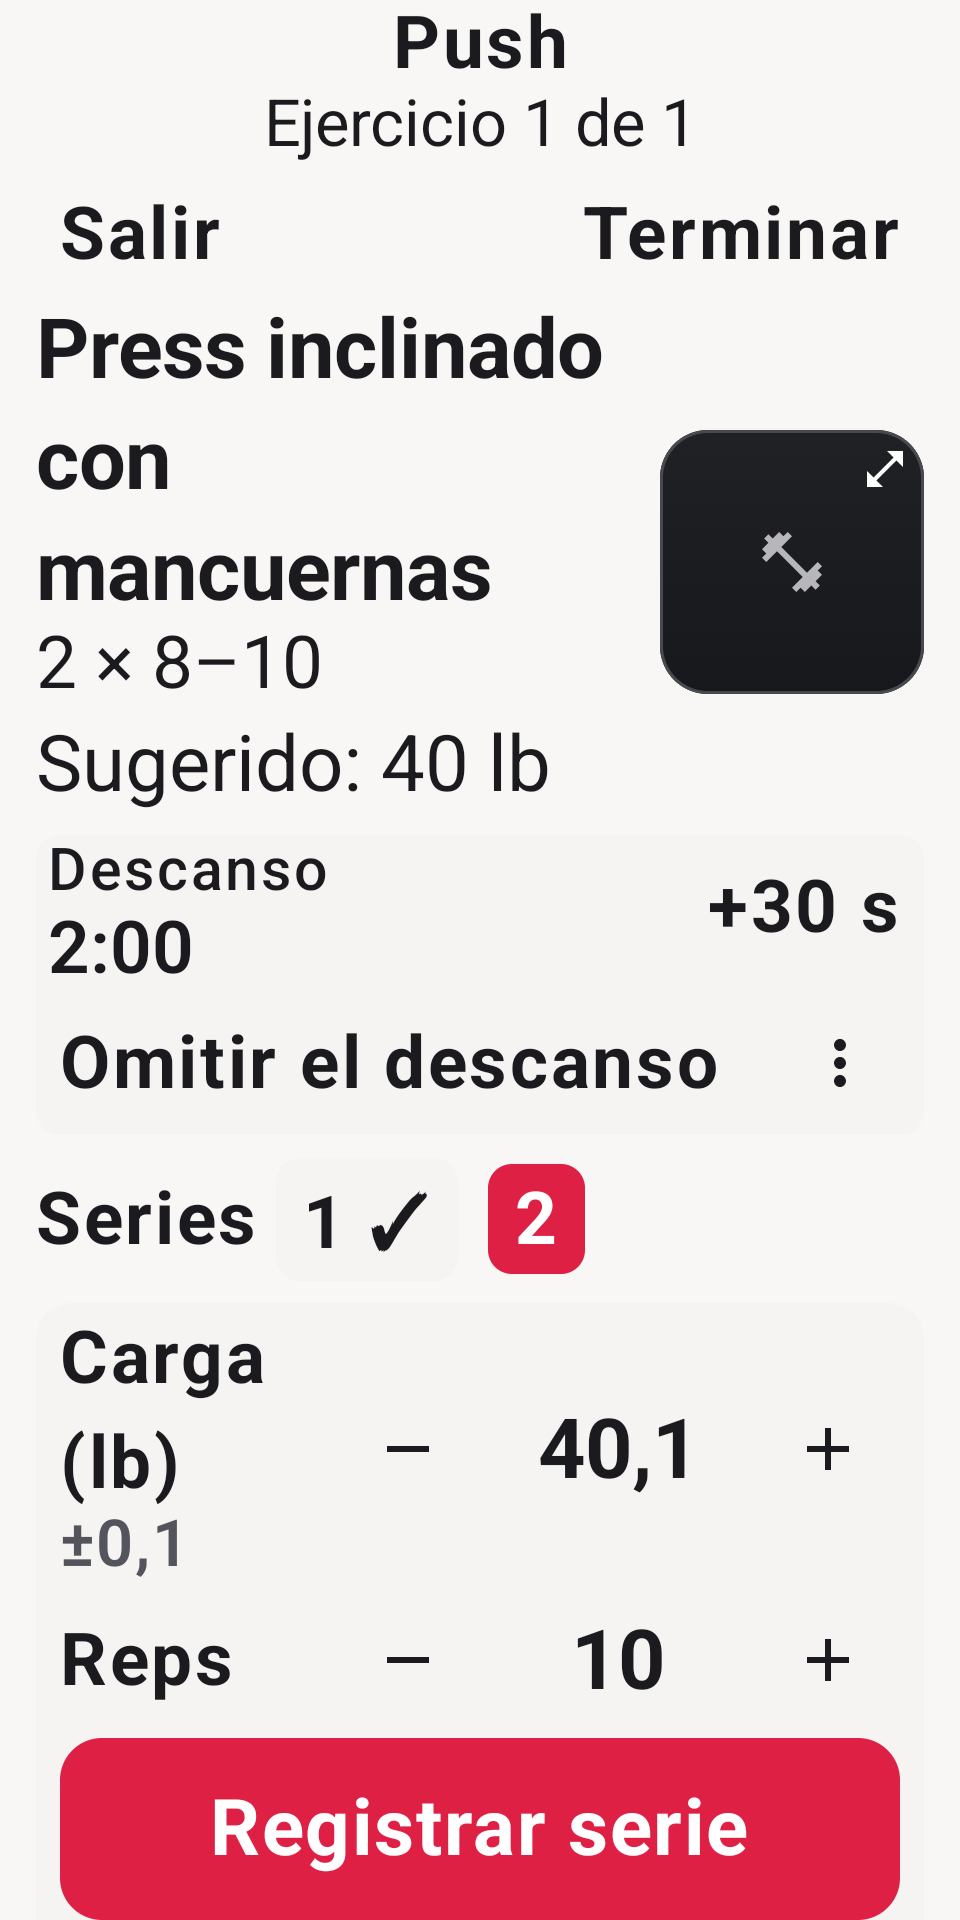
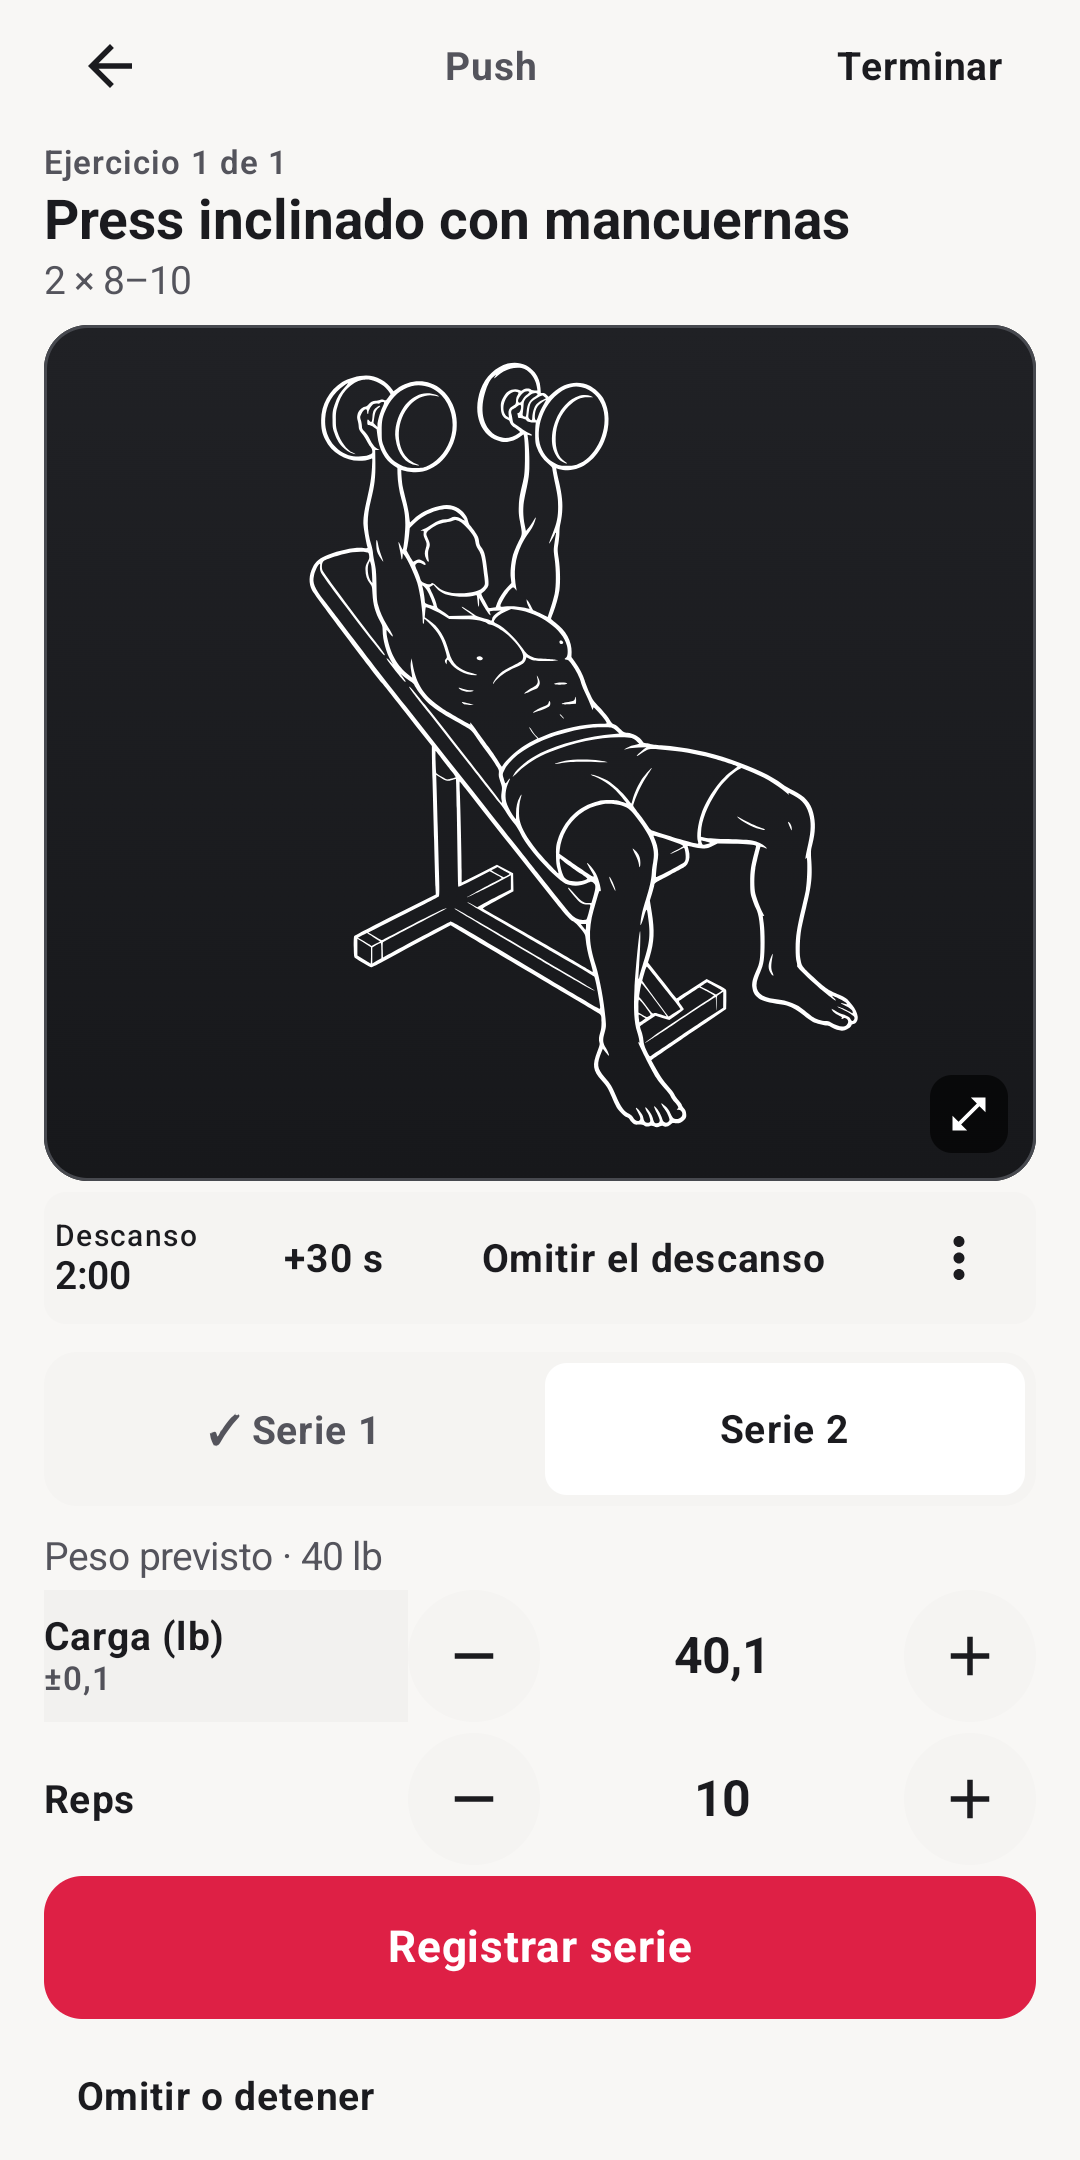
Document Train, unit selection, and stable workout demonstrations

diff --git a/README.md b/README.md
@@ -23,10 +23,14 @@ direction; the app's existing deterministic planner remains the foundation.
 
 ## Screenshots & App Experience
 
-**Train** opens your next workout or resumes one in progress. Use **Change** to choose a workout source. **Progress** opens your weekly activity and recent workouts. **Library** holds exercises, saved workouts and the educational condition guide. The profile icon on each tab opens settings.
+During setup, choose **LB** or **KG** on **Experience and units**. Each tile centers the abbreviation above the full unit name. Tap anywhere on the tile to select it. TalkBack announces the selected unit.
+
+After setup, **Train** shows your weekly workout count above today's workout poster. The poster pairs the workout split and focus with a still of the first planned exercise when its artwork is available. Check the estimated time, exercise count and sets, then tap **Start workout**. Use **Change** to switch workout sources. If you already have a session in progress, tap **Resume workout** to continue it.
+
+**Progress** opens your weekly activity and recent workouts. **Library** holds exercises, saved workouts and the educational condition guide. The profile icon on each tab opens settings.
 
 <p align="center">
-  <img src="art/screenshots/today-screen.png" width="24%" alt="Train with a workout ready to start" />
+  <img src="art/screenshots/today-screen.png" width="24%" alt="Train in dark mode with a Push workout poster, a still of its opening dumbbell press, and Start workout" />
   <img src="art/screenshots/active-workout.png" width="24%" alt="Exercise demonstration and compact set logger" />
   <img src="art/screenshots/exercises-screen.png" width="24%" alt="Library search, filters and exercise illustrations" />
   <img src="art/screenshots/profile-screen.png" width="24%" alt="Profile and settings" />
@@ -35,7 +39,7 @@ direction; the app's existing deterministic planner remains the foundation.
 - **My Workouts & Templates**: Manage and launch saved custom routines with total sets, exercise counts, and quick-start actions.
 - **Custom Workout Builder**: Interactive routine editor with full 327-exercise bottom sheet picker, move controls for ordering, type-aware editing of every prescription target, unit-safe loads, and unsaved drafts recovered after configuration change or background process death.
 - **Exercise Library**: Searchable catalog of 327 exercises across all muscle groups and equipment types.
-- **Active workout.** Swipe between exercises, tap the demonstration to expand it, and select a numbered set to review or edit it. Tap − or + once, or hold to change the value continuously. Tap the step size under the measurement label for finer adjustments. **Log set** saves the result and starts rest. [View the fine adjustment during rest](art/screenshots/active-workout-fine.png).
+- **Active workout.** Swipe between exercises and tap the artwork for a full-screen demonstration. Select a numbered set to review or edit it. Tap − or + once, or hold to adjust continuously. **Log set** saves the result and starts rest. [View the fine adjustment during rest](art/screenshots/active-workout-fine.png).
 - **Workout Summary**: The existing Finish flow shows recorded duration, external-load volume, completed sets, and records against genuinely earlier performance. View workout details opens the read-only record; Done returns to Progress.
 - **Progress Tracking & History**: Calendar-week activity and separately labelled reviewed dose, weekly streaks, and strength trends, plus an Over time card that charts 4–52 calendar weeks for all exercises, one exercise or one muscle, whose week rows list the workouts behind each week and whose data points open their workout. Tap a completed-workout card to reopen its frozen targets, performed sets, feedback and recorded decision reasons. View all workouts browses older sessions in fixed 20-workout pages.
 - **Profile and settings**: Full local customization of app language (System default / English / Español) and theme preference (Auto System / Dark Mode / Light Mode) with compact switchers, multi-select fitness goals, preferred weight units (LBS/KG), session duration targets, available gym equipment, return-after-break calibration, muscle priorities, and seven movement preferences.
@@ -74,12 +78,12 @@ History shows recorded membership independently of the latest run. Older and man
 sessions retain honestly absent membership.
 
 <p align="center">
-  <img src="art/screenshots/program-today-en.png" width="24%" alt="Today with a program session selected and the Manage program action" />
+  <img src="art/screenshots/program-today-en.png" width="24%" alt="Train showing the first program session, its position in block one, and Start program session" />
   <img src="art/screenshots/program-completed-en.png" width="24%" alt="Completed eight-slot program with recorded-workout links and no invented next slot" />
   <img src="art/screenshots/program-partial-finish-en.png" width="24%" alt="Partial Finish confirmation distinguishing program advancement from actual completed-set credit" />
 </p>
 <p align="center">
-  <em>Today was captured on API 37. The other program screens were captured on API 36. All use disposable test profiles. See
+  <em>These program screens were captured on API 36 using disposable test profiles. See
   <a href="docs/localization.md#program-controls-and-large-text-evidence">Spanish management, confirmation and large-text evidence</a>
   and the <a href="docs/architecture.md#optional-multi-week-programs">persistence and recovery contract</a>.</em>
 </p>
@@ -209,7 +213,7 @@ restoring an archive never changes it.
   <img src="art/screenshots/onboarding-welcome-language-es.png" width="24%" alt="Spanish onboarding step 1 of 8 with the language chip in the header reading ES, the codename field, and a quiet Restaurar perfil desde archivo button under Continuar" />
   <img src="art/screenshots/profile-language-es.png" width="24%" alt="Spanish Training Profile App preferences card holding the interface theme and language as two compact segmented controls, with ES selected" />
   <img src="art/screenshots/onboarding-restore-sheet-es.png" width="24%" alt="The Spanish restore sheet opened from the onboarding wizard, stating that the file holds the profile, routines, and every logged workout" />
-  <img src="art/screenshots/today-screen-es.png" width="24%" alt="Spanish Today screen with the workout summary, start button and expandable exercise list" />
+  <img src="art/screenshots/today-screen-es.png" width="24%" alt="Train in Spanish with an Empuje workout poster, a push-up illustration and an adjustment above Empezar entrenamiento" />
 </p>
 <p align="center">
   <img src="art/screenshots/exercises-screen-es.png" width="24%" alt="Spanish exercise library showing 302 exercises with Spanish names, muscle chips, and equipment chips" />
@@ -446,8 +450,10 @@ for the complete automatic and manual data flows.
 
 ## Gym-floor logging and rest timer
 
-Logging a set is meant to survive a noisy gym floor, so the active workout screen
-keeps every control large, explicit, and local.
+Tap **Set 1**, **Set 2**, or another numbered set to switch editors. The exercise
+demonstration keeps the same size as you switch sets, choose a starting weight, log
+a set, or enter rest. Extra controls and guidance scroll with the page. Rotating
+the phone or resizing the window lets the demonstration fit the new space.
 
 - **One-tap completion.** Log set records the values shown. Save changes confirms
   a correction to a logged set.

diff --git a/docs/architecture.md b/docs/architecture.md
@@ -1457,10 +1457,14 @@ UserProfile.themePreference (SYSTEM | DARK | LIGHT)
 - **Wordmark & Typography**: Brand elements like `WallCrawlWordmark` dynamically
   render primary brand lettering in theme-aware typography tokens (`onSurface`),
   preserving high contrast on all screen densities.
-- **Gym-Floor Ergonomics**: Active workout sets incorporate tactile Material 3
-  `AssistChip` rest-timer controls, bottom padding clearance above sticky
-  actions, and prominent constructive vs destructive confirmation dialog
-  hierarchies.
+- **Train.** `WorkoutPoster` takes the title and first exercise ID from the displayed
+  recommendation. Its still uses the same local artwork provider as the active workout.
+  Applicable condition instructions and adjustment summaries appear before Start.
+- **Active workout layout.** `WorkoutPage` sizes the inline demonstration from the
+  window and exercise heading, reserving 344 dp for set controls. A longer editor
+  increases the scrollable page height. Switching sets or starting rest leaves the
+  illustration bounds steady. The expanded dialog measures its own coaching text and
+  uses the rest of the window for the demonstration.
 
 ## Verification boundaries
 
@@ -1512,8 +1516,8 @@ is retained only for database/archive compatibility and cannot affect artwork.
 Room migration 12 → 13 preserves old rows with conservative defaults. Archive
 version 3 preserves the legacy field; versions 1 and 2 retain their checksums.
 
-The app supplies `LocalIllustrationVariant` from the observed profile to every
-`ExerciseIllustration`. `WorkoutGuideVisualProvider` reads the separate variant index
+The app supplies `LocalIllustrationVariant` from the observed profile to the Train
+poster's `ExerciseStill` and the animated `ExerciseIllustration`. `WorkoutGuideVisualProvider` reads the separate variant index
 off the main thread and returns complete three-frame sequences. A missing variant or
 image-load error falls back to the complete pinned original sequence. A change of
 exercise or variant resets playback and cancels the old load. No frame-by-frame mixing

diff --git a/docs/exercise-illustration-variants.md b/docs/exercise-illustration-variants.md
@@ -26,12 +26,14 @@ Gender is persisted locally in Room and user-requested backups. It does not
 participate in exercise eligibility, loads, prescriptions, or workout selection.
 Profile changes still advance the existing profile revision.
 
-Every exercise surface shares the preference through `ExerciseIllustration`.
-Changing profile gender replaces the whole sequence and restarts its 1–2–3–2 playback. All three
-selected frames play with the review status and remaining visual limitations
-recorded in the distribution provenance. No still-frame substitution is applied.
-If a variant is absent, malformed, or fails to load, the complete pinned original
-sequence is used; the renderer never combines male and female frames in one sequence.
+Train uses the first frame of the first prescribed exercise for the workout poster.
+It uses the profile's illustration variant, then tries the original artwork if the
+variant is unavailable. If both are unavailable, the title uses the available width.
+
+The active workout uses `ExerciseIllustration` for the inline and full-screen
+demonstrations. Animated exercises play their 1–2–3–2 sequence. With reduced
+motion enabled they show a still. Changing the profile's illustration variant resets
+playback. An unavailable variant falls back to the original sequence.
 
 The following captures show the real bundled SVGs in the exercise component after
 changing the profile gender in the test harness. The component itself contains no

diff --git a/docs/localization.md b/docs/localization.md
@@ -117,9 +117,8 @@ Everything numeric goes through `core/ui/format/LocaleFormatting.kt`.
 - **Parsing accepts both `.` and `,`** as the decimal mark, but only one separator per
   value. `2,5` and `2.5` are both 2.5; `1.234,5` and `2.` are refused rather than guessed
   at. A decimal comma is never read as a different magnitude.
-- **A half-typed value is not a value.** Set logging submits on every keystroke, so
-  `47.` — what a reader types on the way to `47.5` — is held back rather than submitted
-  as a null. Only a blank field clears a stored value.
+- **Set logging** uses inline controls. Tap or hold − or + to adjust a value in the
+  session's unit. **Log set** records the displayed values for an open set.
 - **Editable numbers use ASCII digits** and a `.` or `,` mark, whatever digits the device
   locale reads by default, because those are the only ones the parser accepts. That
   covers text in a field, the template editor's row summaries (which repeat that text)
